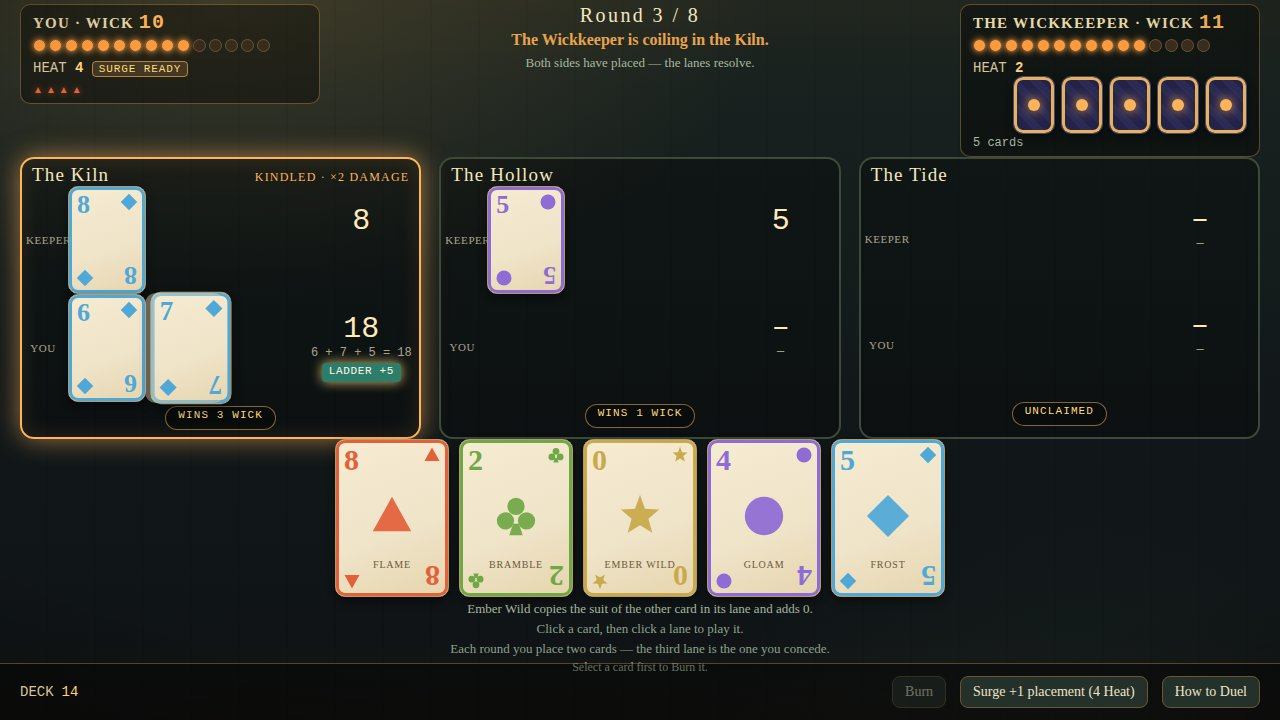
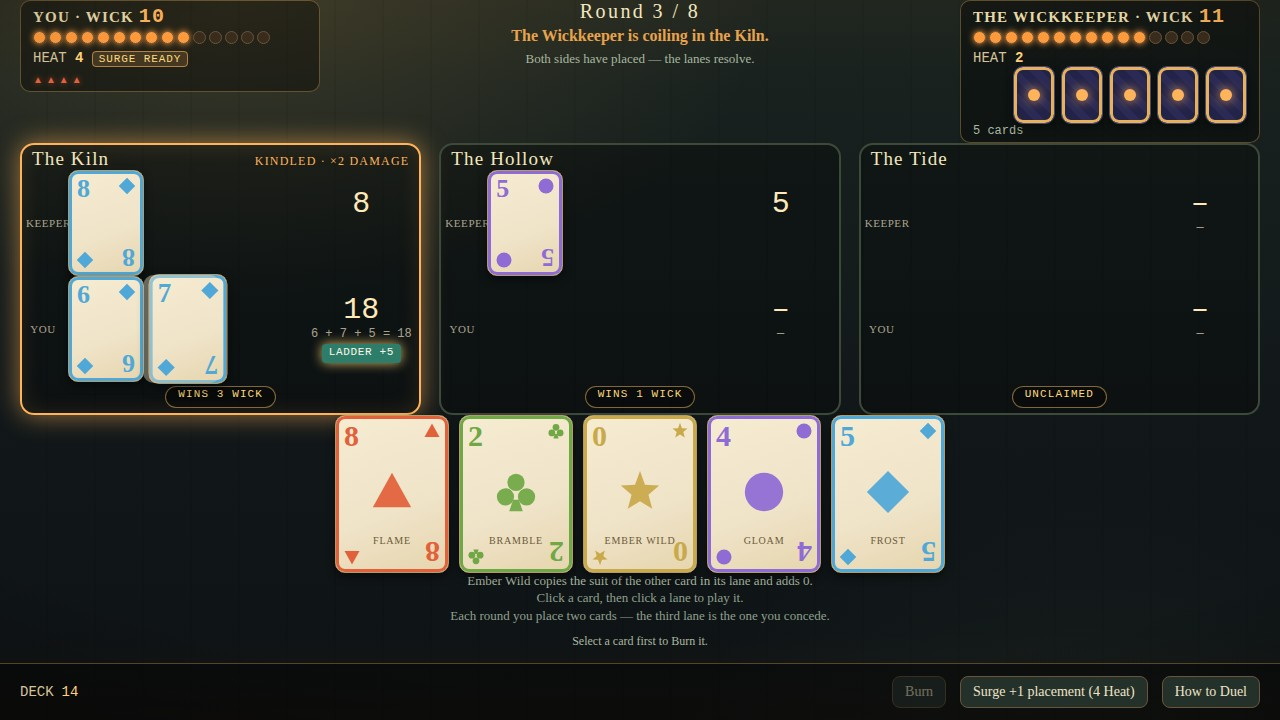
Cinderwick v4.1: anchor Burn hint above footer (Superbot fix plan)
The v4 hint sat in normal flow at y~666-674, inside the absolute 56px
footer band, so the footer gold border cut through its glyphs. Per
Superbot's fix plan: .action-hint is now position absolute, bottom 70px
(56px footer + 14px gap), min-height/line-height 1.3, nowrap, opacity 1,
colour #a8b8a0 (the instruction ink it already matches; the plan's
#b8b1a3 matches neither instruction line). The flow above the hint is
tightened ~32px (HUD/lane/hand/foot rhythm) so the last instruction line
ends at y=625, giving 9px air above the hint and a 13px gap to the
footer. Measured on the 1280x720 page: hint 634.4-650 (15.6px, one line),
gapToFooter 13, airAbove 9, identical for the longest string. No change
to the button label, hint strings, footer contents, lanes or card row.
Screenshot 01-table-combo.jpg re-captured.

diff --git a/game/css/table.css b/game/css/table.css
@@ -72,15 +72,15 @@
   display: grid;
   grid-template-columns: 300px 1fr 300px;
   align-items: start;
-  padding: 4px 20px 0;
+  padding: 0 20px 0;
   gap: 12px;
 }
-.wick-panel { background: rgba(0, 0, 0, 0.35); border: 1px solid rgba(232, 178, 90, 0.35); border-radius: 10px; padding: 6px 12px; }
-.wick-panel h3 { margin: 0 0 4px; font-size: 15px; letter-spacing: 0.08em; color: #e8d9a8; }
+.wick-panel { background: rgba(0, 0, 0, 0.35); border: 1px solid rgba(232, 178, 90, 0.35); border-radius: 10px; padding: 4px 12px; }
+.wick-panel h3 { margin: 0 0 2px; font-size: 15px; letter-spacing: 0.08em; color: #e8d9a8; }
 .wick-panel h3 .wick-num { font-family: ui-monospace, monospace; font-size: 20px; color: #ffb35a; }
 .pip { display: inline-block; width: 11px; height: 11px; border-radius: 50%; margin-right: 3px; background: #3a2c1c; border: 1px solid #6b543a; }
 .pip.wick.on { background: #ff9a3c; box-shadow: 0 0 6px rgba(255, 154, 60, 0.9); }
-.heat-line { font-family: ui-monospace, monospace; font-size: 14px; color: #d8c49a; margin-top: 4px; }
+.heat-line { font-family: ui-monospace, monospace; font-size: 14px; color: #d8c49a; margin-top: 2px; }
 .heat-line b { color: #ffcf7a; }
 .surge-chip { font-size: 11px; letter-spacing: 0.08em; color: #ffd97a; background: rgba(255, 179, 90, 0.16); border: 1px solid rgba(255, 179, 90, 0.6); border-radius: 4px; padding: 1px 6px; font-family: ui-monospace, monospace; white-space: nowrap; }
 .heat-pips { margin-top: 3px; min-height: 12px; }
@@ -108,7 +108,7 @@
 }
 .table-footer button:disabled { opacity: 0.45; cursor: default; }
 .table-footer button:hover:not(:disabled) { border-color: #e8b25a; }
-#ai-hand-count { font-family: ui-monospace, monospace; font-size: 12px; color: #a8b8a0; margin-top: 2px; }
+#ai-hand-count { font-family: ui-monospace, monospace; font-size: 12px; color: #a8b8a0; margin-top: 0; }
 
 /* ---- Lanes ---- */
 .lanes { display: flex; gap: 18px; justify-content: center; padding: 0 20px 0; }
@@ -117,7 +117,7 @@
   background: rgba(0, 0, 0, 0.28);
   border: 2px solid #3d4a3a;
   border-radius: 14px;
-  padding: 5px 10px 7px;
+  padding: 3px 10px 5px;
   cursor: pointer;
   transition: border-color 120ms ease;
   text-align: center;
@@ -131,7 +131,7 @@
 .lane-row { display: flex; align-items: center; gap: 8px; min-height: 106px; }
 .lane-row-label { font-size: 11px; color: rgba(239, 227, 200, 0.7); width: 34px; letter-spacing: 0.05em; flex-shrink: 0; margin-left: -6px; }
 .lane-ai-cards, .lane-you-cards { display: flex; gap: 6px; flex: 1; min-height: 106px; align-items: center; }
-.lane-ai-cards .card, .lane-you-cards .card { width: 76px; height: 106px; }
+.lane-ai-cards .card, .lane-you-cards .card { width: 76px; height: 106px; box-sizing: border-box; }
 .lane-ai-cards .card .card-value, .lane-you-cards .card .card-value { font-size: 26px; }
 .lane-ai-cards .card .card-value-mirror, .lane-you-cards .card .card-value-mirror { font-size: 26px; }
 .lane-ai-cards .card .card-suit-big, .lane-you-cards .card .card-suit-big { display: none; }
@@ -147,21 +147,41 @@
 .lane-chip.twin { background: #7a4a9e; }
 .lane-chip.lit { box-shadow: 0 0 12px rgba(255, 217, 122, 0.85); }
 /* Wick chip: what winning this lane is worth right now. */
-.lane-combo { display: inline-block; font-family: ui-monospace, monospace; font-size: 11px; letter-spacing: 0.1em; padding: 2px 12px; border: 1px solid rgba(232, 178, 90, 0.55); border-radius: 20px; color: #ffd97a; background: rgba(0, 0, 0, 0.3); margin-top: 4px; min-height: 18px; }
+.lane-combo { display: inline-block; font-family: ui-monospace, monospace; font-size: 11px; letter-spacing: 0.1em; padding: 1px 12px; border: 1px solid rgba(232, 178, 90, 0.55); border-radius: 20px; color: #ffd97a; background: rgba(0, 0, 0, 0.3); margin-top: 4px; min-height: 18px; }
 
 /* ---- Hands ---- */
 #ai-hand { display: flex; gap: 6px; justify-content: flex-end; min-height: 56px; }
 #ai-hand .card { width: 40px; height: 56px; }
-#player-hand { display: flex; gap: 10px; justify-content: center; padding: 0 20px 0; min-height: 160px; }
+#player-hand { display: flex; gap: 10px; justify-content: center; padding: 0 20px 0; min-height: 158px; }
 #player-hand .card { width: 112px; height: 156px; }
-#ember-rule { text-align: center; font-size: 13px; color: #a8b8a0; padding-top: 2px; }
+#ember-rule { text-align: center; font-size: 13px; color: #a8b8a0; padding-top: 0; }
 #player-hand .card { cursor: pointer; }
 #player-hand .card:hover { transform: translateY(-10px) rotate(1deg); }
 #player-hand .card.selected { transform: translateY(-14px); outline: 3px solid #ffb35a; }
-.table-foot { text-align: center; font-size: 13px; line-height: 1.5; color: #8fa08f; padding-top: 2px; }
-/* Burn state, as guidance above the footer buttons; fixed height so the
-   footer never jumps when the line is empty. */
-.action-hint { text-align: center; font-size: 12px; line-height: 18px; min-height: 18px; color: #a8b8a0; }
+.table-foot { text-align: center; font-size: 13px; line-height: 1.4; color: #8fa08f; padding-top: 0; }
+/* Burn state, as guidance above the footer buttons; anchored to the panel
+   (v4.1 fix: the hint was in normal flow and landed inside the absolute
+   footer band, so the footer's gold border cut through its glyphs). The hint
+   now owns its own band: bottom 70px = 56px footer + 14px gap. Colour stays
+   #a8b8a0, the instruction ink it already matches (#ember-rule is the same;
+   the plan's #b8b1a3 matches neither instruction line). #screen-table
+   (.screen, position absolute) is already the containing block, so no
+   .table-panel rule is needed. */
+.action-hint {
+  position: absolute;
+  left: 0;
+  right: 0;
+  bottom: 70px;          /* 56px footer band + 14px gap */
+  margin: 0;
+  min-height: 1.3em;     /* one line reserved for all three strings */
+  line-height: 1.3;
+  font-size: 12px;
+  text-align: center;
+  color: #a8b8a0;
+  opacity: 1;
+  white-space: nowrap;   /* longest string is ~340px; safe at 1280 */
+  pointer-events: none;
+}
 #btn-resolve { margin-top: 6px; }
 
 /* ---- Win / loss ---- */
